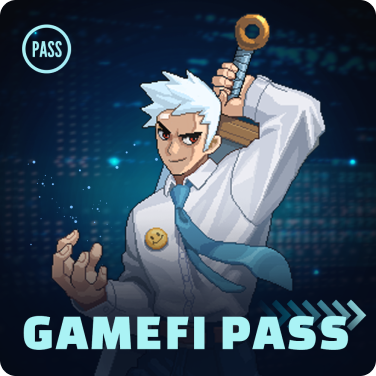
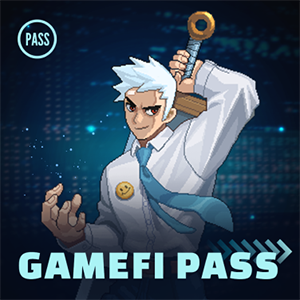
首頁及商城版面微調

diff --git a/pre/scss/pages/index-main.scss b/pre/scss/pages/index-main.scss
@@ -27,6 +27,7 @@
     }
     main{
         width: 408px;
+        padding-top: 100px;
         color: $white;
         h2{
             font-size: calc($fontSize * 4);
@@ -101,8 +102,8 @@
     display: flex;
     gap: 28px;
     .banner-frame{
-        flex: 33%;
-        max-width: 33%;
+        flex: 400px;
+        max-width: 400px;
         .banner-content{
             position: relative;
             height: 160px;
@@ -111,8 +112,17 @@
             border: 1px solid $gray;
             a{
                 position: absolute;
-                top: 50%;
-                transform: translateY(-50%);
+                top: 0;
+                right: 0;
+                bottom: 0;
+                left: 0;
+                img{
+                    position: absolute;
+                    min-width: 100%;
+                    min-height: 100%;
+                    top: 50%;
+                    transform: translateY(-50%);
+                }
             }
         }
         .banner-thumb{
@@ -123,7 +133,7 @@
         }
     }
     .ranking-frame{
-        flex: 67%;
+        flex: calc(100% - 428px);
         flex-shrink: 0;
         position: relative;
         border-radius: 40px;
@@ -132,7 +142,7 @@
         .ranking-header{
             display: flex;
             .title{
-                flex: 35%;
+                flex: 33%;
                 flex-shrink: 0;
                 font-size: calc($fontSize * 1.4);
                 font-weight: $UltraBold;
@@ -142,7 +152,7 @@
                 }
             }
             .gold-medal{
-                flex: 30%;
+                flex: 33%;
                 dl{
                     display: flex;
                     gap: 12px;
@@ -162,7 +172,7 @@
                 }
             }
             .btns{
-                flex: 35%;
+                flex: 33%;
                 #ranking-basis{
                     float: right;
                     display: flex;
@@ -598,10 +608,10 @@
         flex-wrap: wrap;
         justify-content: center;
         .banner-frame{
-            flex: 50%;
-            max-width: 50%;
+            flex: 50vw;
+            max-width: 50vw;
             .banner-content{
-                height: 180px;
+                height: 20vw;
                 a{
                     left: 0;
                     right: 0;
@@ -813,7 +823,7 @@
             flex: 100%;
             max-width: 100%;
             .banner-content{
-                height: 33vw;
+                height: 40vw;
             }
         }
         .ranking-frame{

diff --git a/css/index-main.css b/css/index-main.css
@@ -26,6 +26,7 @@
 }
 .animation-banner main {
   width: 408px;
+  padding-top: 100px;
   color: #ffffff;
 }
 .animation-banner main h2 {
@@ -101,8 +102,8 @@
   gap: 28px;
 }
 .banner-ranking .banner-frame {
-  flex: 33%;
-  max-width: 33%;
+  flex: 400px;
+  max-width: 400px;
 }
 .banner-ranking .banner-frame .banner-content {
   position: relative;
@@ -113,6 +114,15 @@
 }
 .banner-ranking .banner-frame .banner-content a {
   position: absolute;
+  top: 0;
+  right: 0;
+  bottom: 0;
+  left: 0;
+}
+.banner-ranking .banner-frame .banner-content a img {
+  position: absolute;
+  min-width: 100%;
+  min-height: 100%;
   top: 50%;
   transform: translateY(-50%);
 }
@@ -123,7 +133,7 @@
   gap: 8px;
 }
 .banner-ranking .ranking-frame {
-  flex: 67%;
+  flex: calc(100% - 428px);
   flex-shrink: 0;
   position: relative;
   border-radius: 40px;
@@ -134,7 +144,7 @@
   display: flex;
 }
 .banner-ranking .ranking-frame .ranking-header .title {
-  flex: 35%;
+  flex: 33%;
   flex-shrink: 0;
   font-size: 14px;
   font-weight: 700;
@@ -144,7 +154,7 @@
   display: inline;
 }
 .banner-ranking .ranking-frame .ranking-header .gold-medal {
-  flex: 30%;
+  flex: 33%;
 }
 .banner-ranking .ranking-frame .ranking-header .gold-medal dl {
   display: flex;
@@ -164,7 +174,7 @@
   margin-right: 8px;
 }
 .banner-ranking .ranking-frame .ranking-header .btns {
-  flex: 35%;
+  flex: 33%;
 }
 .banner-ranking .ranking-frame .ranking-header .btns #ranking-basis {
   float: right;
@@ -580,11 +590,11 @@
     justify-content: center;
   }
   .banner-ranking .banner-frame {
-    flex: 50%;
-    max-width: 50%;
+    flex: 50vw;
+    max-width: 50vw;
   }
   .banner-ranking .banner-frame .banner-content {
-    height: 180px;
+    height: 20vw;
   }
   .banner-ranking .banner-frame .banner-content a {
     left: 0;
@@ -771,7 +781,7 @@
     max-width: 100%;
   }
   .banner-ranking .banner-frame .banner-content {
-    height: 33vw;
+    height: 40vw;
   }
   .banner-ranking .ranking-frame .ranking-header .title {
     flex: 100%;

diff --git a/pre/scss/pages/shop.scss b/pre/scss/pages/shop.scss
@@ -21,6 +21,7 @@
                 img{
                     width: calc(100% - 32px);
                     margin: 40px auto 16px;
+                    border-radius: 8px;
                 }
                 span{
                     display: block;

diff --git a/css/shop.css b/css/shop.css
@@ -25,6 +25,7 @@
 .gamefi-pass ul li a img {
   width: calc(100% - 32px);
   margin: 40px auto 16px;
+  border-radius: 8px;
 }
 .gamefi-pass ul li a span {
   display: block;
